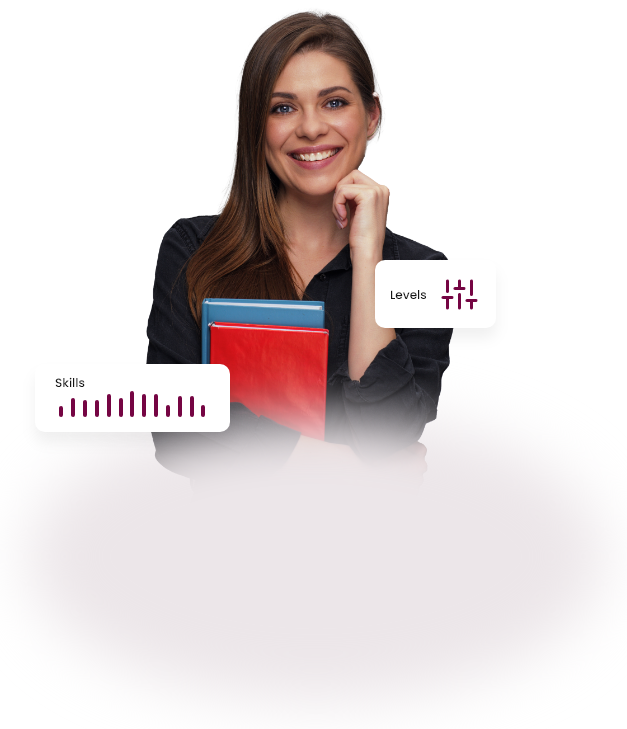
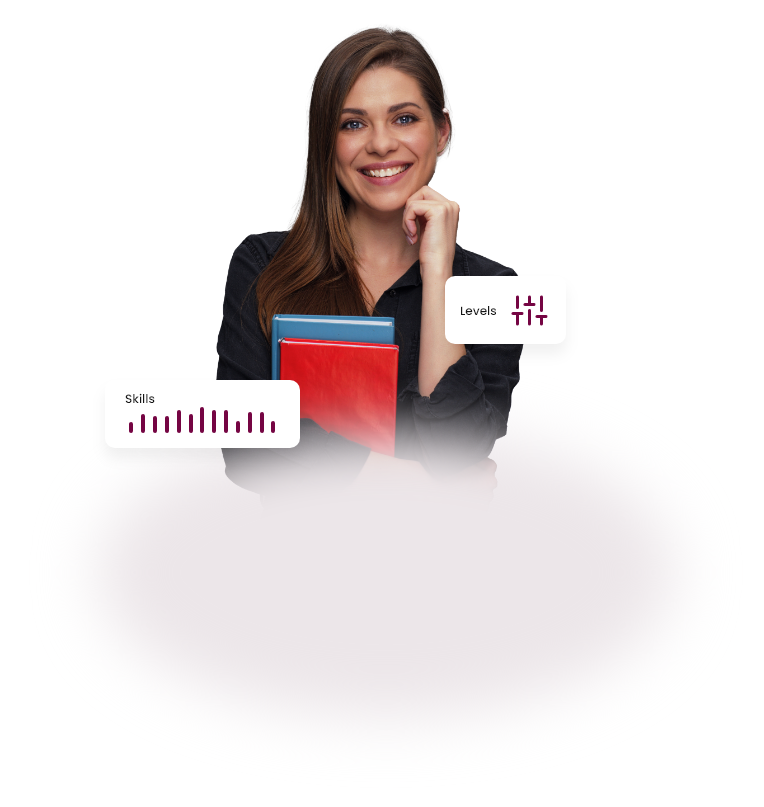
feat: Header styles [#TK-97]

Changed region(s): [[0.0909, 0.0, 0.7576, 0.6639]]

diff --git a/src/components/layouts/Header/Header.jsx b/src/components/layouts/Header/Header.jsx
@@ -5,9 +5,9 @@ import './header.css';
 import logo from '../../../assets/logos/empleapp-header-logo.png';
 import woman from '../../../assets/img/woman.png';
 
-import facebookIcon from '../../../assets/icons/facebook-icon.svg';
-import instagramIcon from '../../../assets/icons/instagram-icon.svg';
-import linkedinIcon from '../../../assets/icons/linkedin-icon.svg';
+import facebookIcon from '../../../assets/icons/svg/facebook-icon.svg';
+import instagramIcon from '../../../assets/icons/svg/instagram-icon.svg';
+import linkedinIcon from '../../../assets/icons/svg/linkedin-icon.svg';
 
 const Header = () => (
   <>
@@ -25,11 +25,17 @@ const Header = () => (
       </div>
 
       <div className="row between-xs header-info">
-        <div className="col-xs-4">
-          <h1 className="header-content-title">
-            Creamos y evaluamos tu
+        <div className="col-xs-4 header-content">
+          <p className="header-content-title">
+            Creamos
+          </p>
+          <p className="header-content-title">
+            y Evaluamos
+          </p>
+          <p className="header-content-title">
+            tu
             <strong className="header-content-title-strong"> Hoja de Vida</strong>
-          </h1>
+          </p>
           <p className="header-content-text">
             Envía tu CV, nuestros especialistas te entregarán sin costo una calificación
             inicial con retroalimentación del estado en el que se encuentra tu formato frente
@@ -41,11 +47,11 @@ const Header = () => (
             rel="noopener noreferrer"
             className="header-hv-button"
           >
-            !Empieza Ahora¡
+            ¡Empieza Ahora!
           </a>
         </div>
         <div className="col-xs-5">
-          <img src={woman} alt="empleapp woman" />
+          <img src={woman} alt="empleapp woman" className="header-woman" />
         </div>
       </div>
 

diff --git a/src/components/layouts/Header/header.css b/src/components/layouts/Header/header.css
@@ -3,13 +3,12 @@
 .header {
   height: 120vh;
   margin: auto;
-  padding: 45px 0;
+  padding-top: 45px;
   width: 80%;
 }
 
-.header-socials-icons-row {
-  margin-top: -250px;
-  z-index: 1;
+.header-content {
+  margin-top: 100px;
 }
 
 .header-content-text {
@@ -19,16 +18,22 @@
 
 .header-content-title {
   font-family: 'regular';
-  font-size: 3.2em;
+  font-size: 2.8em;
+  padding-top: 0.5em;
 }
 
 .header-content-title-strong {
   font-family: 'bold';
-  font-size: 1.2em;
+  font-size: 1em;
 }
 
 .header-info {
-  margin: 150px 0 0 0;
+  margin: 80px 0;
+  width: 80%;
+}
+
+.header-hv-button {
+  padding: 1.5em 2.5em;
 }
 
 .header-ingress-button {
@@ -47,11 +52,7 @@
 }
 
 .header-ingress-button:hover, .header-hv-button:hover {
-  background-color: var(--secondary);
-}
-
-.header-hv-button {
-  padding: 1.5em 2.5em;
+  background-color: var(--button-hover);
 }
 
 .header-logo {
@@ -59,17 +60,27 @@
   width: 15%;
 }
 
-.header-socials-icons-bar {
-  background-color: var(--white);
-  border-radius: var(--border-radius);
-}
-
-.header-top-bar {
-  background-color: var(--white);
-  border-radius: var(--border-radius);
-}
-
 .header-social-icons {
   margin: 20px 10px;
   width: 10%;
+}
+
+.header-social-icons:hover {
+  background-color: var(--primary);
+  border-radius: var(--border-radius);
+  padding: 4px;
+}
+
+.header-socials-icons-row {
+  margin-top: -450px;
+  z-index: 1;
+}
+
+.header-socials-icons-bar, .header-top-bar {
+  background-color: var(--white);
+  border-radius: var(--border-radius);
+}
+
+.header-woman {
+  height: 1000px;
 }

diff --git a/src/components/layouts/AboutUs/AboutUs.jsx b/src/components/layouts/AboutUs/AboutUs.jsx
@@ -11,7 +11,7 @@ const AboutUs = () => (
           <p className="about-us-text">
             EmpleApp es una empresa que Conecta perfiles potenciales de una manera rapida,
             ágil y efectiva, enfocando su metodología en las personas, potencializando el
-            perfil laboral e incrementando la visibilidad ante los reclutadores y buscadores
+            perfil laboral e incrementando la visibilidad ante los reclutadores/buscadores
             de empleo y facilita para las empresas la consecución de personal idóneo en menor
             tiempo, mediante una plataforma web la cual permite agilizar y optimizar los procesos
             de perfilación y reclutamiento impactando a mayor número de personas y empresas.
@@ -20,8 +20,7 @@ const AboutUs = () => (
             Dicha metodología se realiza mediante un ecosistema que potencializa el perfil laboral
             de los candidatos, acompaña, capacita, entrega información de valor para facilitar la
             toma de decisiones y apoya en la fidelización del recurso humano, realizando un proceso
-            de selección de talento humano centrado en las personas. Los servicios ofertados por la
-            unidad productiva son los siguientes:
+            de selección de talento humano centrado en las personas.
           </p>
         </div>
       </div>

diff --git a/src/components/layouts/Features/Features.jsx b/src/components/layouts/Features/Features.jsx
@@ -19,23 +19,26 @@ const Features = () => (
           image={identify}
           alt="Identify"
           title="Identificamos"
-          description="Lorem ipsum Lorem ipsumLorem ipsumLorem ipsumLorem ipsumLorem ipsum"
+          description="Nos importa lo que deseas para tu futuro, en una entrevista inicial
+            entendemos las necesidades e inconvenientes que han surgido a lo largo del proceso
+            de búsqueda de empleo."
         />
         <Box
           image={accompany}
           alt="Acompañamiento"
           title="Perfilamos"
-          description="Lorem ipsum Lorem ipsumLorem ipsumLorem ipsumLorem ipsumLorem ipsum"
+          description="En un acompañamiento de 3 días encontramos habilidades y fortalezas del
+            perfil y lo plasmamos en un documento digital potencializado."
         />
         <Box
           image={connection}
           alt="Conexion"
           title="Conectamos"
-          description="Lorem ipsum Lorem ipsumLorem ipsumLorem ipsumLorem ipsumLorem ipsum"
+          description="Pasamos a la acción !! conociendo tu perfil y tus requerimientos continuamos
+            conectando con las empresas a nivel nacional e internacional."
         />
       </div>
     </section>
-
   </>
 );
 

diff --git a/src/components/layouts/Services/Services.jsx b/src/components/layouts/Services/Services.jsx
@@ -24,7 +24,7 @@ const Services = () => (
         headerImage={jobProfileImg}
         iconImage={whiteJobProfileIcon}
         title="Perfil laboral"
-        text="asesoramos y potencializamos su hoja de via enfocándonos en
+        text="Asesoramos y potencializamos su hoja de via enfocándonos en
           sus competencias y ofreciendo recomendaciones para que su perfil
           se adapte al mercado laboral actual."
         className="col-xs-6"
